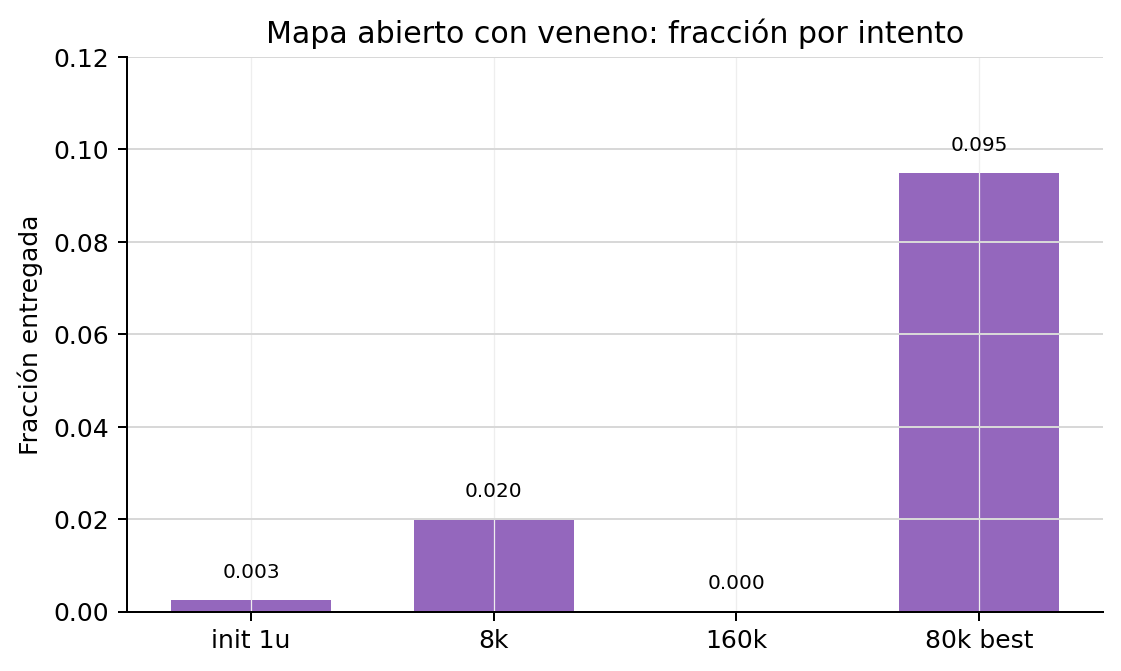
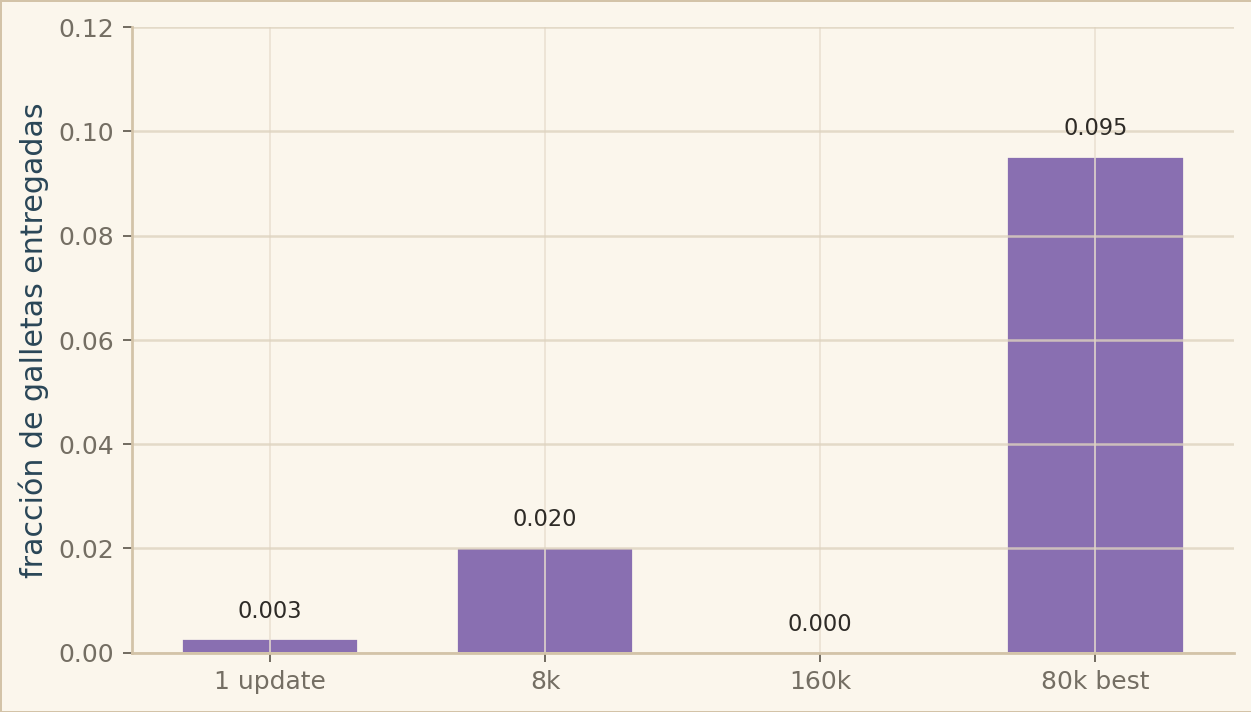
docs: update lethal cookies report with revised text and new figures

Changed region(s): [[0.0, 0.0, 0.9991, 0.9836], [0.0, 0.9836, 0.0312, 1.0]]

diff --git a/docs/index.html b/docs/index.html
@@ -1393,20 +1393,16 @@
             <div class="step-layout lethal-media-layout">
               <div class="step-copy">
                 <p class="step-claim">
-                  El mapa abierto no se resolvió de forma robusta, pero sí dejó
-                  una señal visual útil.
+                  El mapa abierto no se resolvió de forma robusta, pero sí
+                  mostró resultados interesantes.
                 </p>
                   <p>
                     En este primer escenario, la política debía seguir forrajeando
-                    mientras aprendía a no tomar la fuente peligrosa. El setting
-                    era un mapa abierto de 50x50, con muchas galletas distribuidas
-                    en el mapa y fuentes seguras y letales muestreadas en
-                    posiciones aleatorias. La configuración base comparó una
-                    fuente segura y una fuente letal, ambas con 50 unidades,
-                    <code>death_penalty=1.0</code> y warm-start desde el checkpoint
-                    positivo. El porcentaje de galletas entregadas mide qué
-                    proporción de las galletas seguras disponibles terminó
-                    efectivamente en el nido.
+                    mientras aprendía a no tomar las galletas peligrosas. Se
+                    configuró un mapa abierto de 50x50, con muchas galletas
+                    distribuidas en el mapa y fuentes seguras y letales muestreadas
+                    en posiciones aleatorias. La configuración base para este
+                    experimento fue con <code>death_penalty=1.0</code>.
                   </p>
                   <p>
                     La corrida larga de 160 mil updates terminó cerca de reward 0.
@@ -1418,21 +1414,21 @@
                   <p>
                     Para corregir ese colapso se subió el <code>pickup_bonus</code>:
                     un término de reward de shaping que se suma cuando una hormiga
-                    levanta una galleta. Sí es reward, pero no es la reward
-                    principal de entrega al nido; sólo incentiva que la política
-                    vuelva a intentar pickups. Con ese empuje, el mejor checkpoint
-                    de 80 mil updates vuelve a tomar riesgo, recupera entregas y
-                    mejora el porcentaje de galletas entregadas. Aun así, la
-                    curva sigue siendo inestable: no es una convergencia limpia,
-                    sino una política parcialmente útil.
+                    levanta una galleta. De esta forma se incentiva que la política
+                    vuelva a intentar recolectar galletas aunque haya un riesgo
+                    asociado. Con este enfoque, el mejor checkpoint de 80 mil
+                    updates vuelve a tomar riesgo, recupera entregas y mejora el
+                    porcentaje de galletas entregadas. Aún así, la curva de
+                    recompensa sigue siendo inestable: no es una convergencia
+                    limpia, sino una política parcialmente útil.
                 </p>
                 <p>
                   El rollout de evaluación donde mejor se ve esa corrida de 80
-                  mil updates es el anillo controlado: muchas galletas seguras
-                  alrededor del nido y una fuente letal cercana. Ahí se ve que,
-                  aunque el entrenamiento sea irregular, la política sí aprende
-                  a ignorar la galleta letal asociada a cadáveres mientras sigue
-                  explotando comida segura.
+                  mil updates es el anillo de galletas. En este, se posicionaron
+                  muchas galletas seguras alrededor del nido y una fuente letal
+                  cercana. Ahí se ve que, aunque el entrenamiento sea irregular,
+                  la política sí aprende a ignorar la galleta letal asociada a
+                  cadáveres mientras sigue explotando comida segura.
                 </p>
                 <dl class="metric-grid lethal-metric-grid" aria-label="Métricas de lethal cookies abierto">
                   <div>
@@ -1466,15 +1462,19 @@
             </div>
             <div class="lethal-figure-grid">
               <figure>
-                <img src="report-site/assets/lethal-cookies/figures/lethal_open_fraction.png" alt="Porcentaje de galletas entregadas en lethal cookies abierto">
+                <img src="report-site/assets/lethal-cookies/figures/lethal_open_fraction.png" alt="Fracción de galletas entregadas en lethal cookies abierto">
                 <figcaption>
+                  <strong>Mapa abierto con veneno: fracción de galletas entregadas por intento.</strong>
                   El mejor porcentaje queda por debajo del 10%; esto es señal
-                  parcial, no solución del entorno abierto.
+                  parcial, no solución del entorno abierto. La barra
+                  <code>1 update</code> es el intento inicial, evaluado después
+                  de una sola actualización de entrenamiento.
                 </figcaption>
               </figure>
               <figure>
                 <img src="report-site/assets/lethal-cookies/figures/training_return_lethal_open.png" alt="Retornos de entrenamiento en lethal cookies abierto">
                 <figcaption>
+                  <strong>Mapa abierto con veneno: retorno durante entrenamiento.</strong>
                   La corrida de 160 mil updates cae hacia una política de no
                   agarrar galletas; con más <code>pickup_bonus</code>, la de 80
                   mil updates vuelve a explorar pickups, aunque todavía con
@@ -1546,14 +1546,21 @@
                     Como subresultado, en una escena con una única fuente letal
                     cerca de comida segura se ve que el cadáver puede inducir una
                     zona local de exclusión, incluso cuando la hormiga muerta no
-                    está exactamente en el mismo tile que la galleta.
+                    está exactamente en el mismo tile que la galleta. En el GIF
+                    de evaluación se puede ver cómo, si bien muchas veces ambas
+                    hormigas mueren por agarrar galletas letales sin evidencia,
+                    en muchas ocasiones se crea esta zona de exclusión y se deja
+                    de agarrar galletas cuando se tiene un cadáver cercano.
                   </p>
                   <p>
-                    El límite fue la navegación. Todavía no se veían trayectorias
-                    satisfactorias alrededor de paredes: con varias galletas cerca
-                    del hormiguero, la política podía conseguir reward sin aprender
+                    Sin embargo, esta configuración no resuelve el problema de la
+                    navegación. Todavía no se ven trayectorias satisfactorias
+                    alrededor de paredes, ya que con varias galletas cerca del
+                    hormiguero, la política podía conseguir reward sin aprender
                     recorridos largos condicionados por obstáculos. Ese diagnóstico
-                    motivó el siguiente experimento.
+                    motivó el siguiente experimento. El porcentaje bajo de galletas
+                    entregadas refleja que el mapa contiene muchas galletas, por lo
+                    que pocas entregas absolutas pesan poco sobre el total.
                 </p>
                 <dl class="metric-grid lethal-metric-grid" aria-label="Métricas de random walls">
                   <div>
@@ -1644,15 +1651,6 @@
                 </figcaption>
               </figure>
             </div>
-            <div class="lethal-figure-grid">
-              <figure>
-                <img src="report-site/assets/lethal-cookies/figures/lethal_curriculum_delivered_food.png" alt="Entregas en variantes con veneno">
-                <figcaption>
-                  Near-nest es el resultado completo dentro de esta familia, no
-                  una prueba de generalización universal.
-                </figcaption>
-              </figure>
-            </div>
           </li>
 
           <li class="story-step terminal-step" id="lethal-transfer">
@@ -1686,10 +1684,10 @@
                     fine-tuning empeoró la navegación: la política sacrificó
                     cobertura del mapa y pickups para reducir la probabilidad de
                     tocar una cookie letal.
-                  </p>
+                </p>
                 <p>
-                  La comparación corta contra larga resume el problema. Con 100
-                  updates, la transferencia todavía conserva parte del
+                  Al comparar la evolución del entrenamiento el problema se hace
+                  evidente. Con 100 updates, todavía se conserva parte del
                   comportamiento útil: 8.125 entregas y 67.7% de la tarea. Con
                   1000 updates, cae a 3.875 entregas, 32.3% y retorno de
                   evaluación negativo. La métrica agregada no alcanza para
@@ -1768,13 +1766,15 @@
               </div>
               <div class="lethal-figure-grid">
                 <figure>
-                  <img src="report-site/assets/lethal-cookies/figures/summary_delivered_food.png" alt="Entregas absolutas incluyendo transferencia">
+                  <img src="report-site/assets/lethal-cookies/figures/lethal_curriculum_delivered_food.png" alt="Entregas en variantes con veneno">
                   <figcaption>
-                  Las entregas absolutas deben leerse junto con los videos: más
-                  recompensa no siempre implica mejor política.
-                </figcaption>
-              </figure>
-            </div>
+                    <strong>Cantidad de galletas entregadas por variante.</strong>
+                    La más exitosa resulta ser near-nest walls, aunque esta técnica
+                    no se traduzca satisfactoriamente si en lugar de entrenar desde
+                    0 se entrena desde un checkpoint ya convergido.
+                  </figcaption>
+                </figure>
+              </div>
           </li>
         </ol>
       </details>
